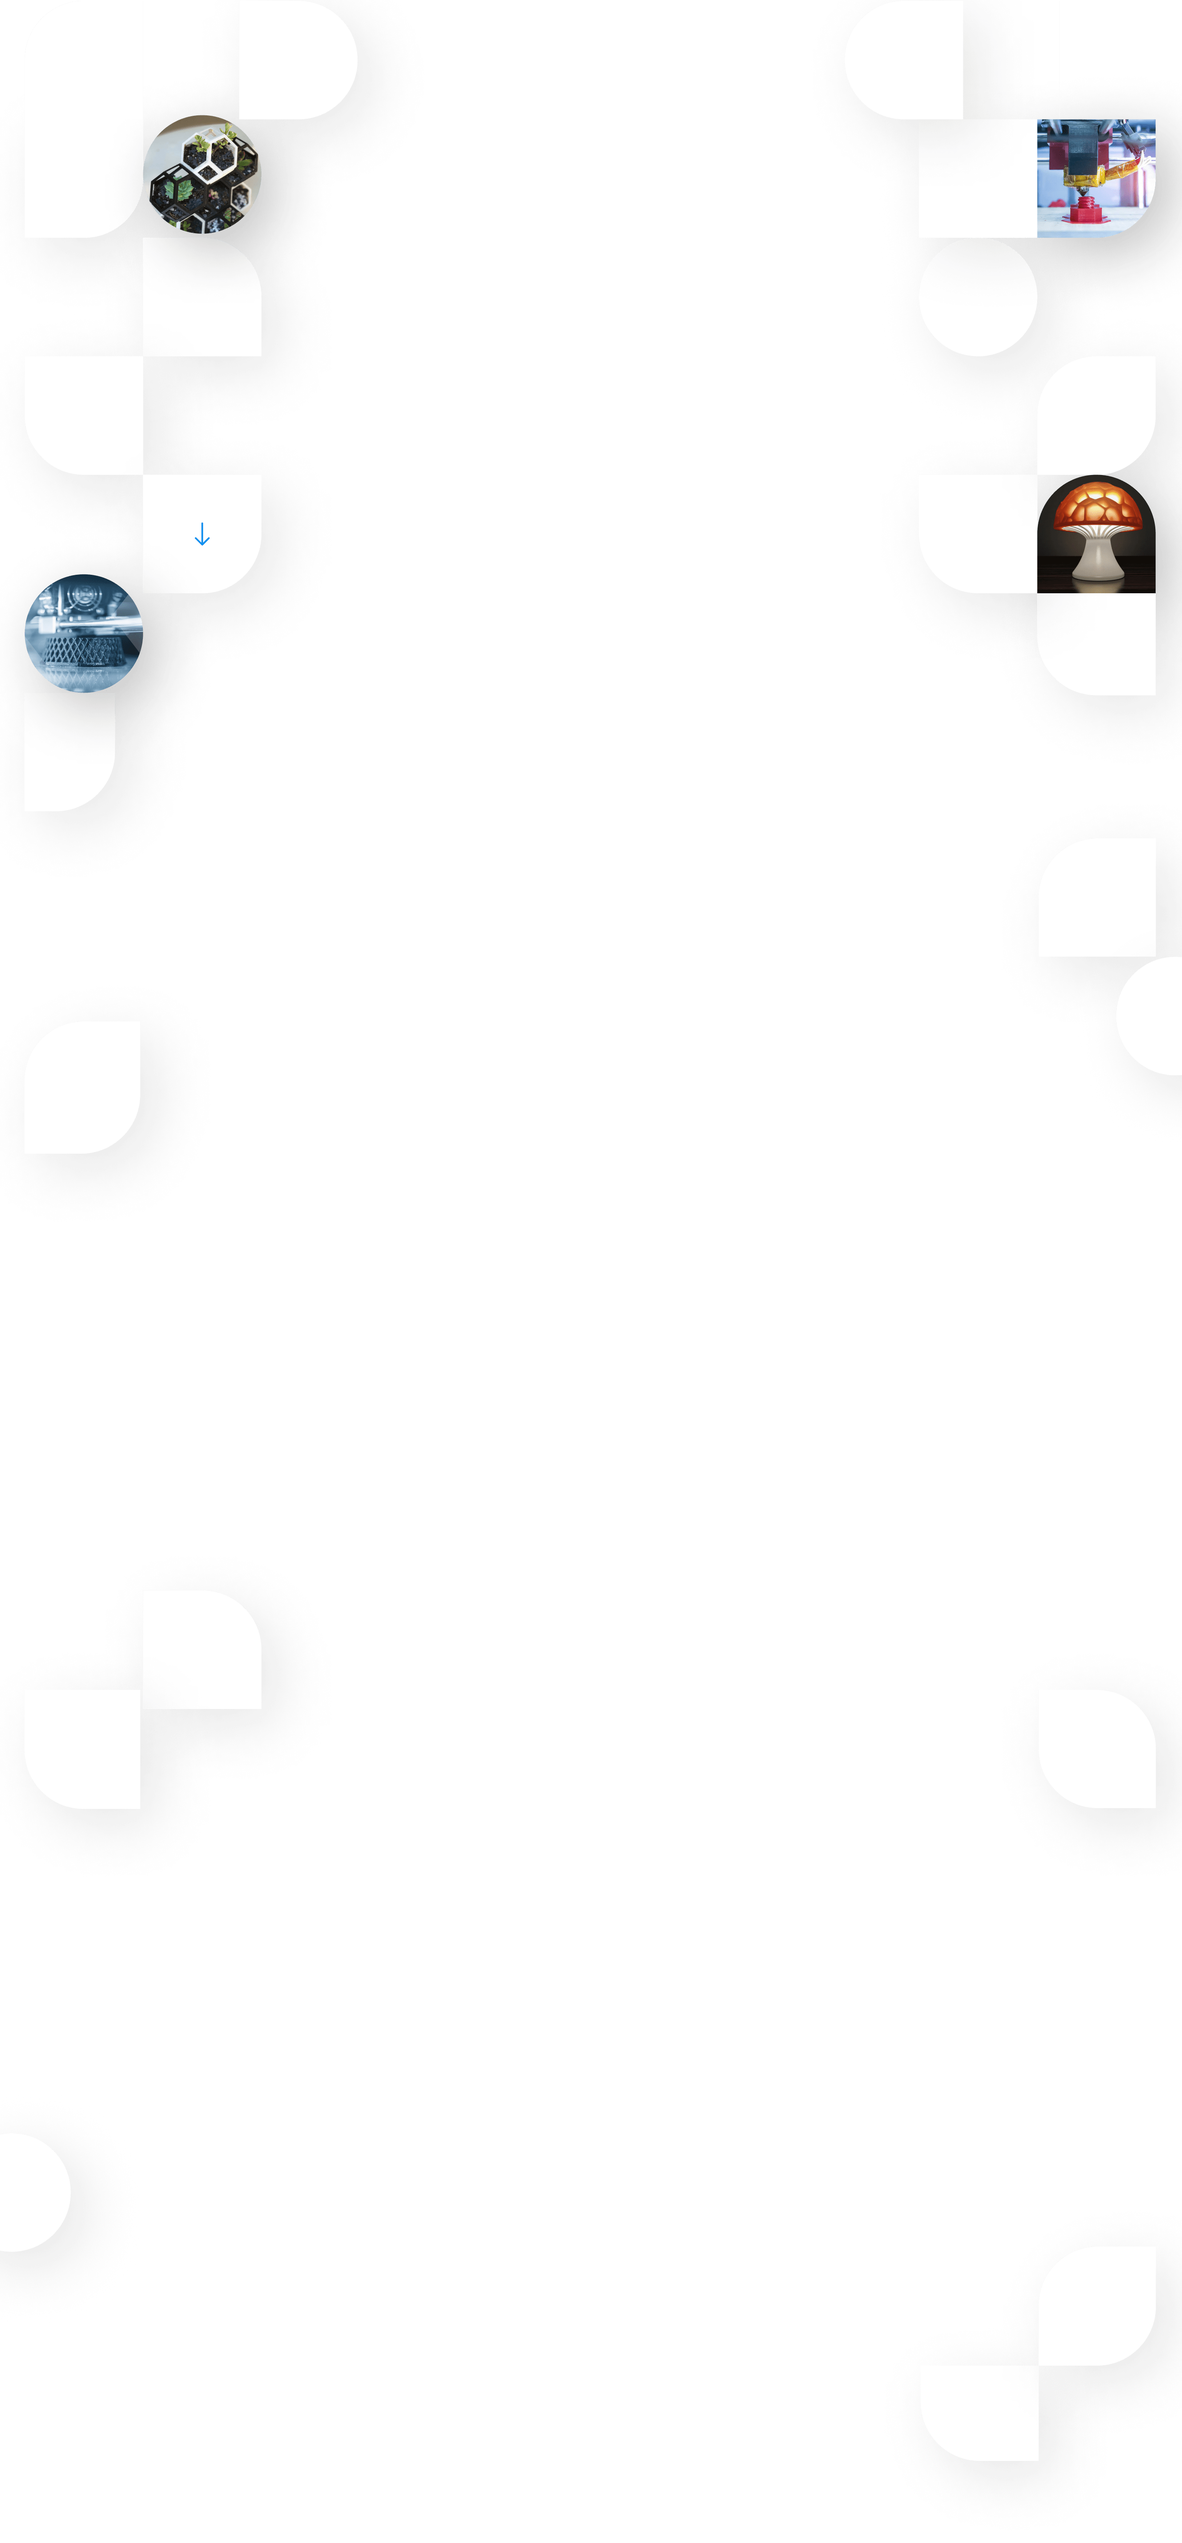
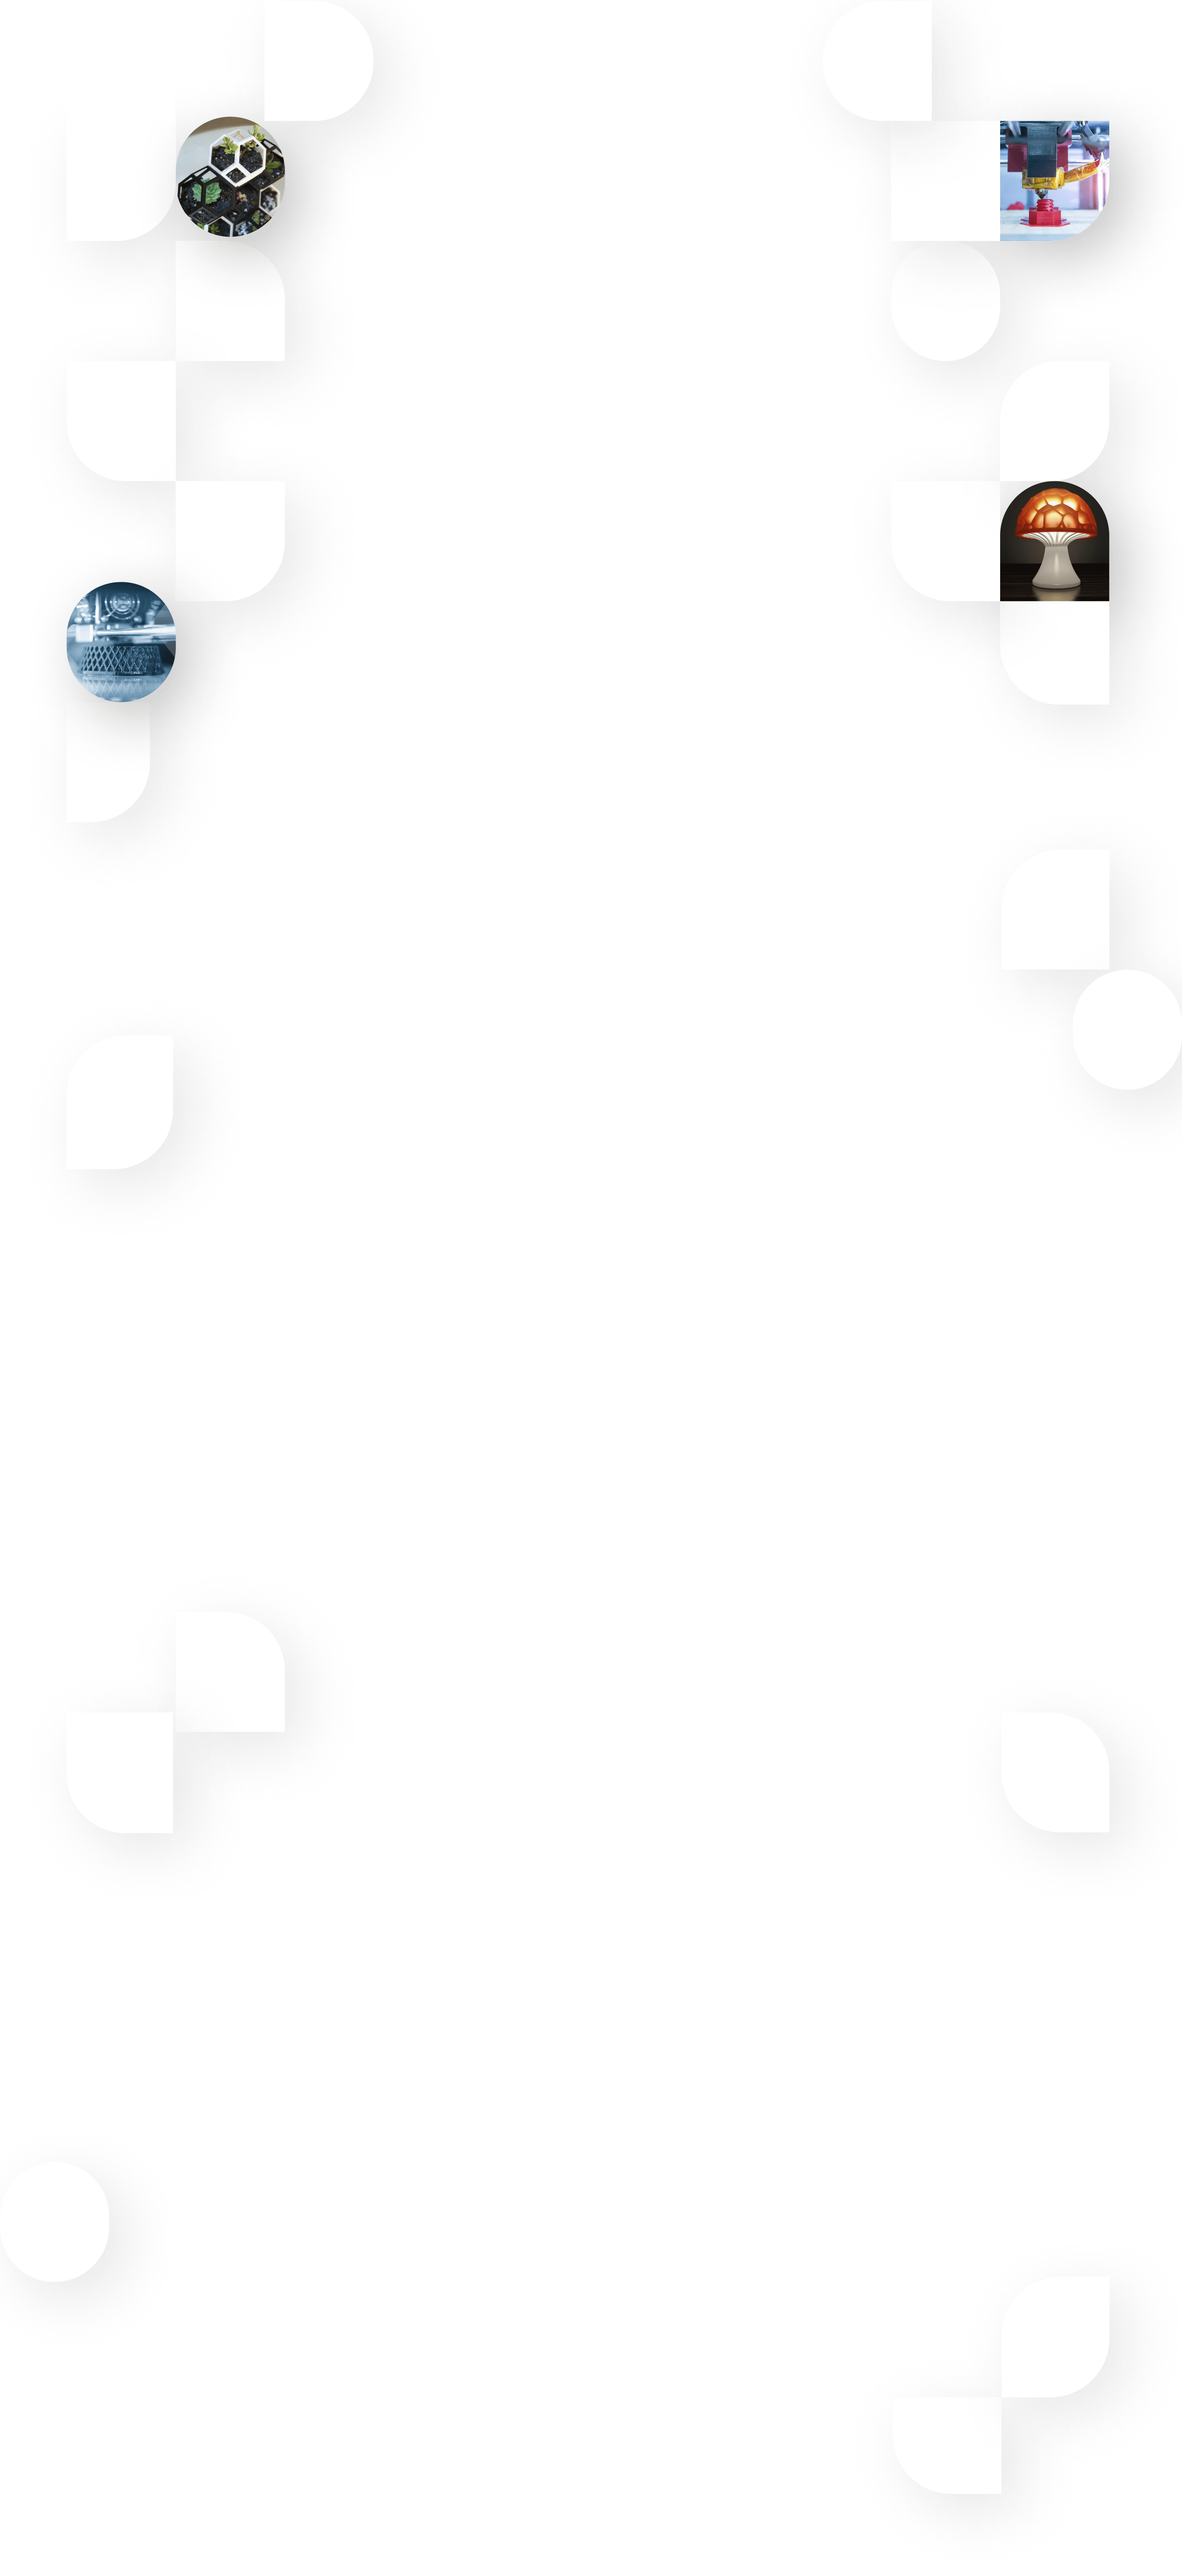
main+contacts

diff --git a/src/sass/components/_decor.scss b/src/sass/components/_decor.scss
@@ -1,24 +1,25 @@
 .decor-main {
   width: 369.65px;
   height: 1425.49px;
-  background-image: url('../images/decor/mobile/decor-mob.png');
+  // background-image: url('../images/decor/mobile/decor-mob.png');
   background-repeat: no-repeat;
   background-position: center;
-  background-size: 1440px 2996px;
+  // background-size: px px;
   position: absolute;
   top: 0;
   left: 50%;
   transform: translateX(-50%);
   z-index: -2;
-  @media (min-device-pixel-ratio: 2),
-    (min-resolution: 192dpi),
-    (min-resolution: 2dppx) {
-    background-image: url('../images/decor/mobile/decor-mob-2x.png');
-  }
+  // @media (min-device-pixel-ratio: 2),
+  //   (min-resolution: 192dpi),
+  //   (min-resolution: 2dppx) {
+  //   background-image: url('../images/decor/mobile/decor-mob-2x.png');
+  // }
   @media screen and (min-width: 768px) {
     width: 802px;
     height: 1507.15px;
     background-image: url('../images/decor/tablet/decor-tab-main.png');
+    background-size: 768px 1507.15px;
     @media (min-device-pixel-ratio: 2),
       (min-resolution: 192dpi),
       (min-resolution: 2dppx) {
@@ -29,6 +30,7 @@
     width: 1562px;
     height: 2996px;
     background-image: url('../images/decor/desktop/decor-main.png');
+    background-size: 1440px 2996px;
     @media (min-device-pixel-ratio: 2),
       (min-resolution: 192dpi),
       (min-resolution: 2dppx) {
@@ -36,17 +38,60 @@
     }
   }
 }
-// код круг desktop
-// background-image: url('../images/main/desktop/backgraund-imgs/gallary-bgi-5.jpg');
-// position: absolute;
-// width: 144px;
-// height: 144px;
-// left: 1264px;
-// top: 1512px;
-// box-shadow: 20px 20px 80px rgba(0, 0, 0, 0.1);
-// border-radius: 72px;
-// @media (min-device-pixel-ratio: 2),
-//   (min-resolution: 192dpi),
-//   (min-resolution: 2dppx) {
-//   background-image: url('../images/main/desktop/backgraund-imgs/gallary-bgi-5@2x.jpg');
+// .decor-block {
+//   background-image: url('../images/main/desktop/backgraund-imgs/gallary-bgi-5.jpg');
+//   position: absolute;
+//   width: 144px;
+//   height: 144px;
+//   // left: 1264px;
+//   // top: 1512px;
+//   left: 1132px;
+//   top: 1357px;
+//   box-shadow: 20px 20px 80px rgba(0, 0, 0, 0.1);
+//   border-radius: 72px;
+//   @media (min-device-pixel-ratio: 2),
+//     (min-resolution: 192dpi),
+//     (min-resolution: 2dppx) {
+//     background-image: url('../images/main/desktop/backgraund-imgs/gallary-bgi-5@2x.jpg');
+//   }
 // }
+.decor-contacts {
+  width: 369.65px;
+  height: 1425.49px;
+  // background-image: url('../images/decor/mobile/decor-mob-contact.png');
+  background-repeat: no-repeat;
+  background-position: center;
+  // background-size: px px;
+  position: absolute;
+  top: 0;
+  left: 50%;
+  transform: translateX(-50%);
+  z-index: -2;
+  // @media (min-device-pixel-ratio: 2),
+  //   (min-resolution: 192dpi),
+  //   (min-resolution: 2dppx) {
+  //   background-image: url('../images/decor/mobile/decor-mob-contact-2x.png');
+  // }
+  @media screen and (min-width: 768px) {
+    width: 802px;
+    height: 1507.15px;
+    background-image: url('../images/decor/tablet/decor-tab.png');
+    background-size: 768px 1507.15px;
+    @media (min-device-pixel-ratio: 2),
+      (min-resolution: 192dpi),
+      (min-resolution: 2dppx) {
+      background-image: url('../images/decor/tablet/decor-tab-2x.png');
+    }
+  }
+  @media screen and (min-width: 1440px) {
+    width: 1562px;
+    height: 2996px;
+    background-image: url('../images/decor/desktop/decor.png');
+    background-size: 1440px 2996px;
+    @media (min-device-pixel-ratio: 2),
+      (min-resolution: 192dpi),
+      (min-resolution: 2dppx) {
+      background-image: url('../images/decor/desktop/decor-2x.png');
+    }
+  }
+}

diff --git a/src/contacts.html b/src/contacts.html
@@ -8,6 +8,7 @@
     <script type="module" src="./index.js"></script>
   </head>
   <body>
+    <include src="./partials/decor/decor_contacts.html"></include>
     <include src="./partials/page-header.html"></include>
     <include src="./partials/contacts/contacts-hero.html"></include>
     <include src="./partials/contacts/contacts-form.html"></include>

diff --git a/src/partials/decor/decor_main.html b/src/partials/decor/decor_main.html
@@ -1,1 +1,3 @@
-<div class="decor-main"></div>
+<div class="decor-main">
+  <div class="decor-block"></div>
+</div>

diff --git a/src/partials/decor/decor_contacts.html b/src/partials/decor/decor_contacts.html
@@ -1,0 +1,1 @@
+<div class="decor-contacts"></div>
